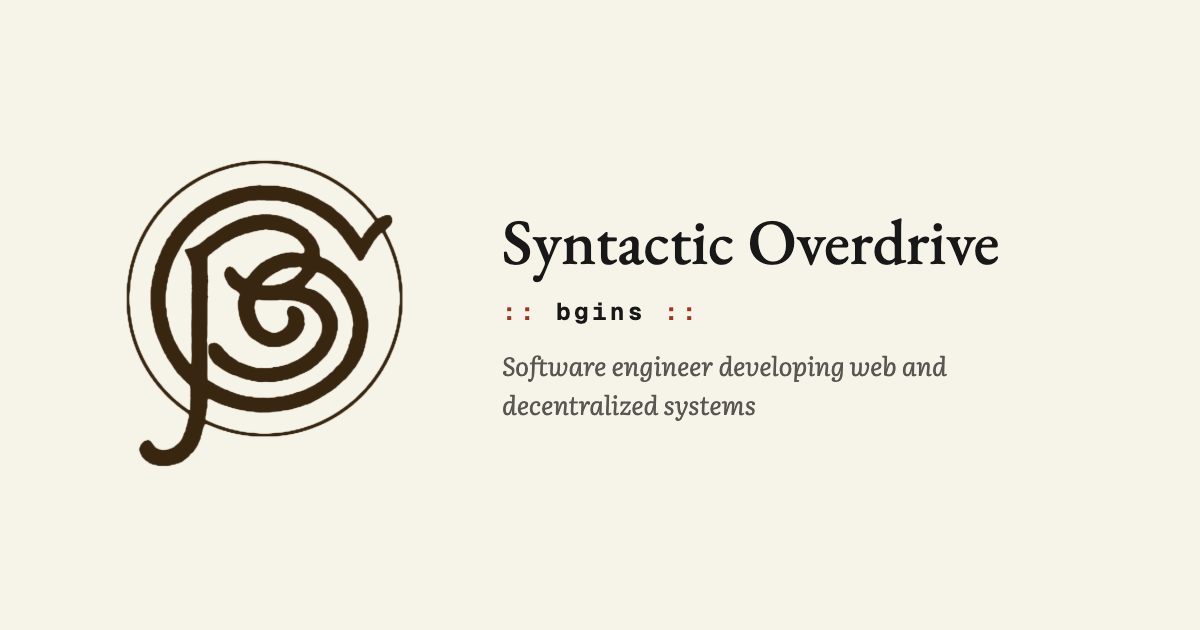
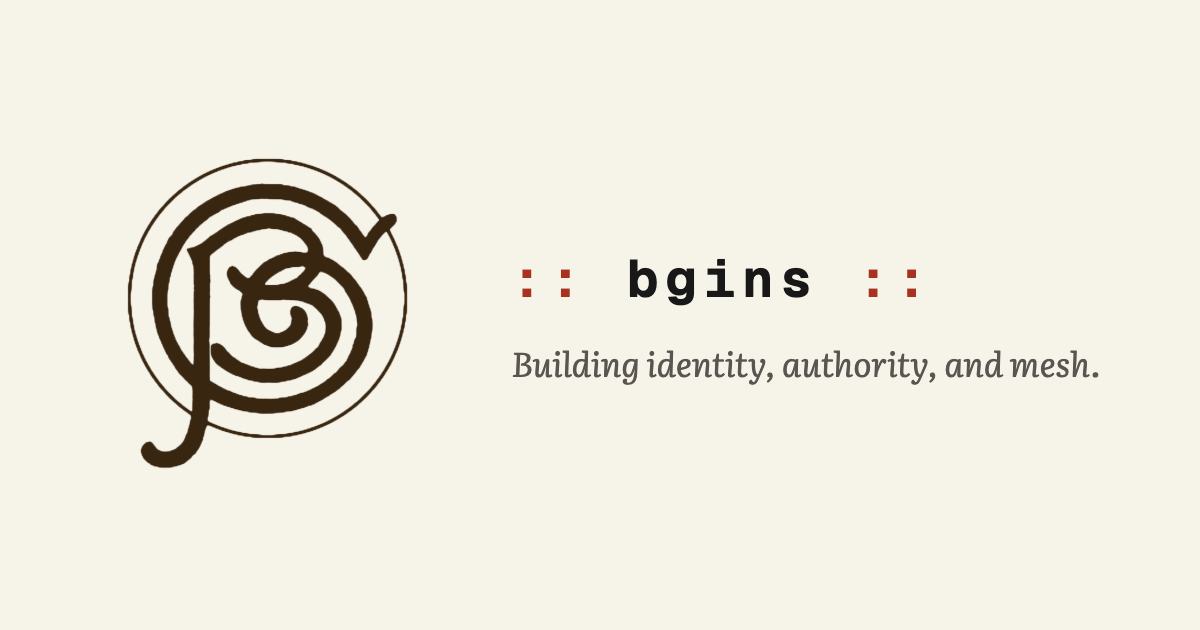
feat: refresh the social identity
- retire the "Syntactic Overdrive" name for "Brian Ginsburg" across the
  page titles, the og site name, the RSS feed, and the web manifest
- the home page's social description becomes the current tagline,
  "Building identity, authority, and mesh"
- the og card is redrawn — the gritted sepia seal, the :: bgins ::
  wordmark, and the tagline — dropping the old name and old bio
- og:url now resolves to the real domain rather than the prerender
  placeholder, so scrapers receive the correct canonical link

diff --git a/src/routes/+page.svelte b/src/routes/+page.svelte
@@ -44,16 +44,16 @@
 <svelte:window {onkeydown} />
 
 <svelte:head>
-  <title>Syntactic Overdrive</title>
-  <meta name="description" content="A blog about programming and music" />
-  <meta property="og:title" content="Syntactic Overdrive" />
-  <meta property="og:url" content={$page.url.href} />
-  <meta property="og:description" content="A blog about programming and music" />
+  <title>Brian Ginsburg</title>
+  <meta name="description" content="Building identity, authority, and mesh." />
+  <meta property="og:title" content="Brian Ginsburg" />
+  <meta property="og:url" content={`${import.meta.env.VITE_ORIGIN}${$page.url.pathname}`} />
+  <meta property="og:description" content="Building identity, authority, and mesh." />
   <meta property="og:image" content={`${import.meta.env.VITE_ORIGIN}/images/og.png`} />
   <meta property="twitter:card" content="summary_large_image" />
   <meta property="twitter:image" content={`${import.meta.env.VITE_ORIGIN}/images/og.png`} />
-  <meta property="twitter:title" content="Syntactic Overdrive" />
-  <meta property="twitter:description" content="A blog about programming and music" />
+  <meta property="twitter:title" content="Brian Ginsburg" />
+  <meta property="twitter:description" content="Building identity, authority, and mesh." />
 </svelte:head>
 
 <div id="layout">

diff --git a/src/routes/projects/+page.svelte b/src/routes/projects/+page.svelte
@@ -50,10 +50,10 @@
 </script>
 
 <svelte:head>
-  <title>Projects | Syntactic Overdrive</title>
+  <title>Projects | Brian Ginsburg</title>
   <meta name="description" content="My projects" />
   <meta property="og:title" content="Projects" />
-  <meta property="og:url" content={$page.url.href} />
+  <meta property="og:url" content={`${import.meta.env.VITE_ORIGIN}${$page.url.pathname}`} />
   <meta property="og:description" content="My projects" />
   <meta property="og:image" content={`${import.meta.env.VITE_ORIGIN}/images/og.png`} />
   <meta property="twitter:title" content="Projects" />

diff --git a/src/lib/markdown/post.svelte b/src/lib/markdown/post.svelte
@@ -45,7 +45,7 @@
   <meta property="og:image" content={`${import.meta.env.VITE_ORIGIN}${image}`} />
   <meta property="og:image:secure_url" content={`${import.meta.env.VITE_ORIGIN}${image}`} />
   <meta property="og:image:alt" content={imageAlt} />
-  <meta property="og:url" content={$page.url.href} />
+  <meta property="og:url" content={`${import.meta.env.VITE_ORIGIN}${$page.url.pathname}`} />
   <meta property="og:description" content={description} />
   <meta property="twitter:card" content="summary_large_image" />
   <meta property="twitter:title" content={title} />

diff --git a/src/lib/markdown/page.svelte b/src/lib/markdown/page.svelte
@@ -29,7 +29,7 @@
   <title>{title}</title>
   <meta name="description" content={description} />
   <meta property="og:title" content={title} />
-  <meta property="og:url" content={$page.url.href} />
+  <meta property="og:url" content={`${import.meta.env.VITE_ORIGIN}${$page.url.pathname}`} />
   <meta property="og:description" content={description} />
   <meta property="og:image" content={`${import.meta.env.VITE_ORIGIN}/images/og.png`} />
   <meta property="twitter:card" content="summary_large_image" />

diff --git a/src/app.html b/src/app.html
@@ -21,9 +21,9 @@
       } catch {}
     </script>
     <meta name="mobile-web-app-capable" content="yes" />
-    <meta name="application-name" content="Syntactic Overdrive" />
+    <meta name="application-name" content="Brian Ginsburg" />
     <meta property="og:type" content="website" />
-    <meta property="og:site_name" content="Syntactic Overdrive" />
+    <meta property="og:site_name" content="Brian Ginsburg" />
     %sveltekit.head%
   </head>
   <body data-sveltekit-preload-data="hover">

diff --git a/src/routes/+layout.svelte b/src/routes/+layout.svelte
@@ -19,7 +19,7 @@
   <link
     rel="alternate"
     type="application/rss+xml"
-    title="Syntactic Overdrive Feed"
+    title="Brian Ginsburg Feed"
     href={`${import.meta.env.VITE_ORIGIN}/feed.xml`}
   />
 </svelte:head>
